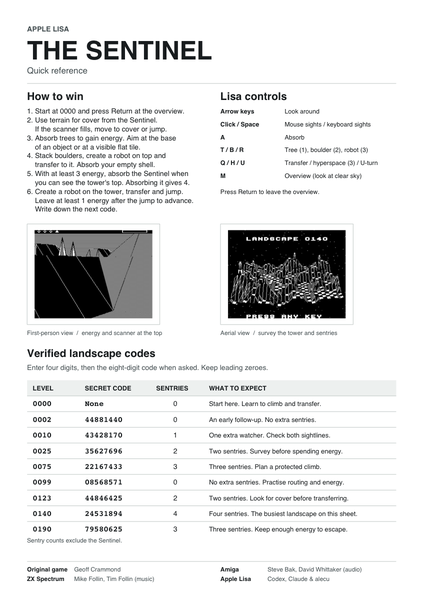
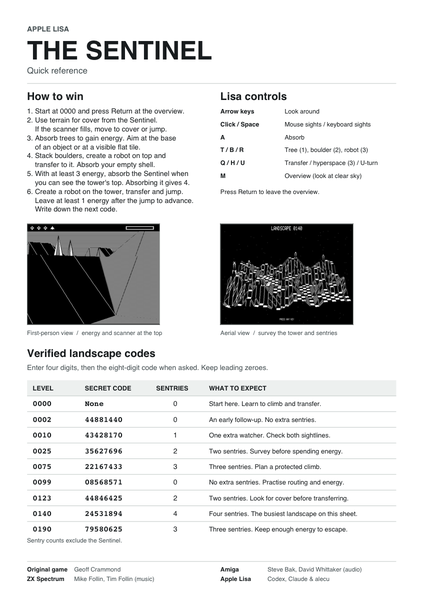
Update the Lisa Sentinel player guide to the native renderer's screenshots
The guide's first-person and overview pictures still showed November
11's renderer. This is the PDF regenerated from beta7b's release-check
captures, which match beta8's.

Changed region(s): [[0.5212, 0.36, 0.8585, 0.54], [0.0613, 0.36, 0.3986, 0.54]]

diff --git a/_projects/lisa-sentinel.md b/_projects/lisa-sentinel.md
@@ -25,7 +25,7 @@ disk:
   sums: /downloads/lisa-sentinel/sentinel-lisa-beta8-SHA256SUMS
 guide:
   url: /downloads/lisa-sentinel/sentinel-lisa-player-guide.pdf
-  size: 32 KB
+  size: 35 KB
   preview: img/lisa-sentinel/player-guide.png
 # Each file is img/lisa-sentinel/<file>.png (720 x 546, smoothed for the page) and <file>-full.png
 # (the raw 720 x 364 framebuffer at 2x horizontal and 3x vertical scale, for the full-size view).
